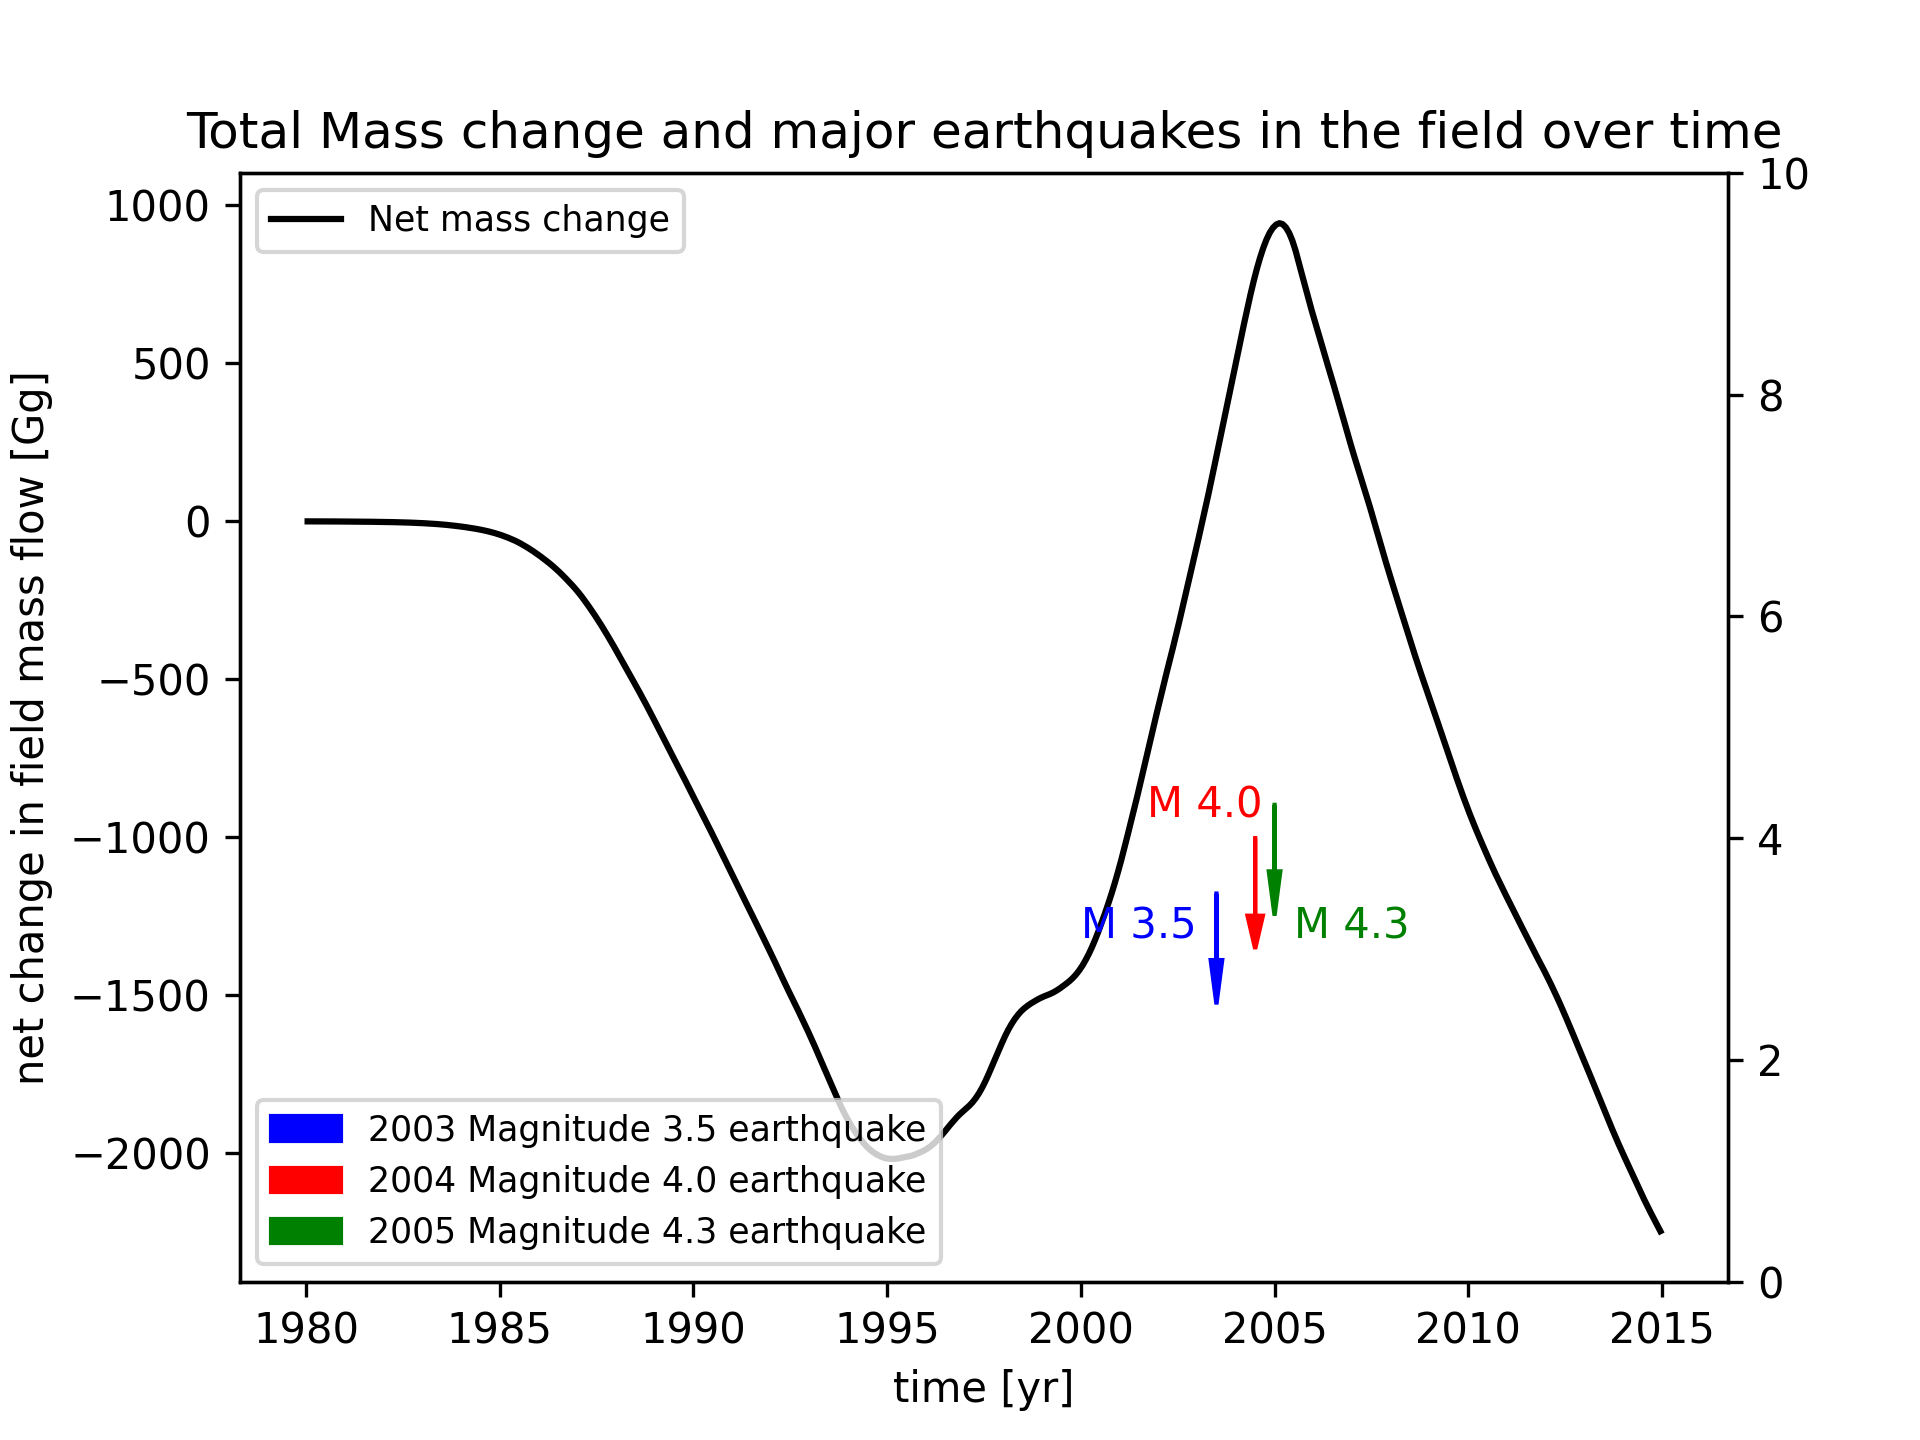
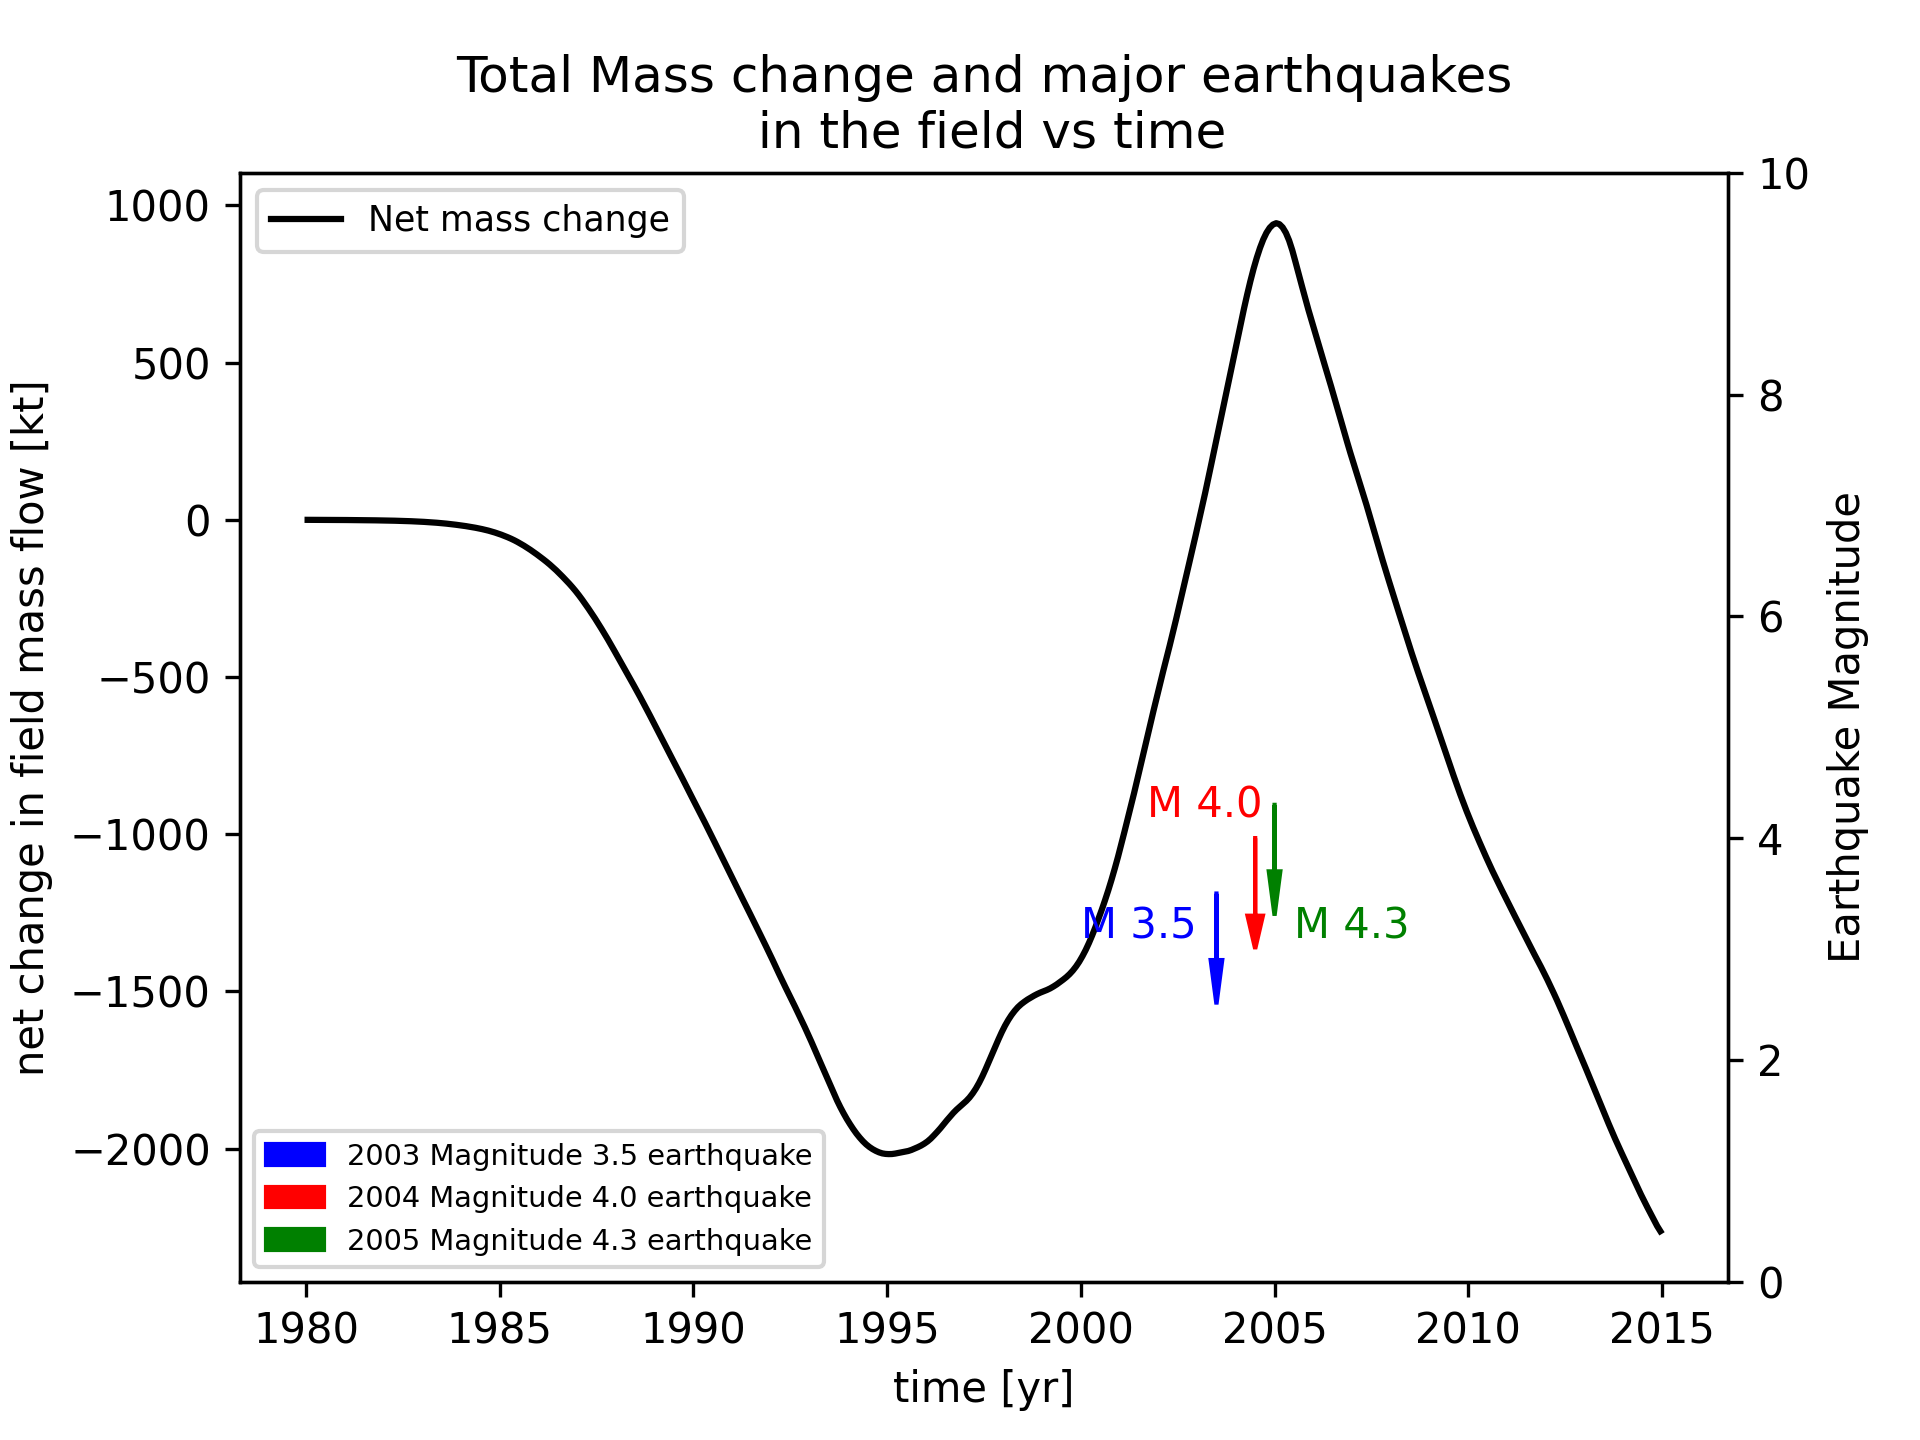
few small changes (e.g. Gg -> kt)

diff --git a/sdlab_earthquakes.py b/sdlab_earthquakes.py
@@ -14,28 +14,8 @@
 import numpy as np
 from scipy.integrate import trapz
 from sdlab_functions import *
-from numpy.linalg import solve, norm
+from numpy.linalg import solve
 import matplotlib.pyplot as plt
-
-# EXERCISE: Analysis of Net Mass Changes.
-#
-# Earthquakes are sometimes associated with oil and gas production (taking mass out of the 
-# ground) and injection (putting it back in) operations.
-# 
-# It has been suggested that injection of water at one particular site, which started midway through  
-# 1993, has been responsible for a spate of recent earthquakes there. These are the data that were 
-# plotted in the first exercise of sdlab_practice.py. The operator of the field has claimed they 
-# cannot be responsible, because injection had been ongoing for almost 10 years before any earthquakes
-# occurred.
-#
-# It has been proposed the earthquakes may be related to NET MASS CHANGES in the field. Therefore,
-# it is necessary to understand how this quantity has evolved over time.
-#
-# Although data from the two production wells (mass extractors) - PW1 and PW2 - are reported regularly,
-# data reporting from the injection well, IW1, is more irregular. In addition, the operator only 
-# reports MASS RATES, not CUMULATIVE production or injection MASS.
-#
-# TO solve this problem, you will need to use both INTERPOLATION and INTEGRATION.
 
 # get data from dat files
 tm,pm1 = np.genfromtxt('PW1.dat',delimiter=',',skip_header=1).T
@@ -61,11 +41,11 @@ mass_inflow_rate = iy_interpo - pm2_interpo - pm1
 
 # integrate mass flow 
 seconds_in_a_year = 31536000 # to convert kg/s to kg/year
-k_to_G_constant = 10**-6 # convert kg to Gg
-net_mass_change = [seconds_in_a_year * trapz(mass_inflow_rate[:i], tm[:i]) * k_to_G_constant for i in range(len(tm))]
+kg_to_kt_constant = 1e-6 # convert kg to kilotonnes
+net_mass_change = [seconds_in_a_year * trapz(mass_inflow_rate[:i+1], tm[:i+1]) * kg_to_kt_constant for i in range(len(tm))]
 
 
-# create a 
+# create a figure to put the plot in
 f, ax1 = plt.subplots(nrows=1,ncols=1)
 ax2 = ax1.twinx()
 
@@ -83,16 +63,69 @@ ax2.text(2005.5, 3.2, 'M 4.3', ha= 'left', va = 'center', size=10, color = 'g')
 # add a legend and axes/plot labels 
 
 ax1.legend(loc=2, fontsize = 'small')
-ax2.legend(loc=3, fontsize = 'small')
+ax2.legend(loc=3, fontsize = 'x-small')
 ax2.set_ylim([0,10])
-ax1.set_ylabel('net change in field mass flow [Gg]')
+ax1.set_ylabel('net change in field mass flow [kt]')
 ax2.set_ylabel('Earthquake Magnitude')
 ax1.set_xlabel('time [yr]')
-ax2.set_title('Total Mass change and major earthquakes in the field over time')
+ax2.set_title('Total Mass change and major earthquakes\n in the field vs time')
 
 
 # save figure
 plt.savefig('sdlab_earthquakes.png',dpi=300)
+
+
+
+
+
+
+
+
+
+
+
+
+
+
+
+
+
+
+
+
+
+
+
+
+
+
+
+
+
+
+
+
+
+# EXERCISE: Analysis of Net Mass Changes.
+#
+# Earthquakes are sometimes associated with oil and gas production (taking mass out of the 
+# ground) and injection (putting it back in) operations.
+# 
+# It has been suggested that injection of water at one particular site, which started midway through  
+# 1993, has been responsible for a spate of recent earthquakes there. These are the data that were 
+# plotted in the first exercise of sdlab_practice.py. The operator of the field has claimed they 
+# cannot be responsible, because injection had been ongoing for almost 10 years before any earthquakes
+# occurred.
+#
+# It has been proposed the earthquakes may be related to NET MASS CHANGES in the field. Therefore,
+# it is necessary to understand how this quantity has evolved over time.
+#
+# Although data from the two production wells (mass extractors) - PW1 and PW2 - are reported regularly,
+# data reporting from the injection well, IW1, is more irregular. In addition, the operator only 
+# reports MASS RATES, not CUMULATIVE production or injection MASS.
+#
+# TO solve this problem, you will need to use both INTERPOLATION and INTEGRATION.
+
 
 # TO DO:
 # - In sdlab_functions.py, COMPLETE the functions SPLINE_COEFFICIENT_MATRIX, SPLINE_RHS, and

diff --git a/sdlab_functions.py b/sdlab_functions.py
@@ -162,7 +162,7 @@ def spline_interpolate(xj, xi, ak):
 	nsamples = len(xi)
 	intervals = [xi[i:i+2] for i in range(0,nsamples-1)]
 	polynomials = [ak[i:i+4] for i in range(0, 4*(nsamples-1),4)]
-	yj = np.array([])
+	yj = np.zeros(len(xj))
 
 	# make the first interval [-inf, xi[0]] and the last interval [xi[-1], inf] and set all points interpolated here to 0
 	intervals = [np.array([-np.inf, xi[0]])] + intervals + [np.array([xi[-1], np.inf])]
@@ -171,16 +171,19 @@ def spline_interpolate(xj, xi, ak):
 
 	# iterated index specifying which interval we are in
 	interv = 0
-	
+	# specifies which point in xj we are looking at
+	j = 0
 	# find the point x1
 	for ipoint in xj:
 		# change interval until it contains the interpolating point
 		while not ((ipoint >= intervals[interv][0]) and (ipoint <= intervals[interv][1])):
 			# iterate subinterval
 			interv +=1
-		# append polynomial evaluated at this point if between first and last point, otherwise append a 0
-		yj = np.append(yj,polyval(polynomials[interv],ipoint-xi[interv-1])) if interv != 0 or interv != len(xi)\
-			 else np.append(yj,polyval(polynomials[interv],0))
+		# set yj[j] to polynomial evaluated at this point if between first and last point, otherwise set to 0
+		yj[j] = polyval(polynomials[interv],ipoint-xi[interv-1]) if (interv != 0 or interv != len(xi)) else 0
+
+		# iterate j index
+		j+=1
 
 	return yj
 	

diff --git a/sdlab_practice.py b/sdlab_practice.py
@@ -21,7 +21,7 @@ tol = 1.e-6
 # Boolean variables to run each exercise
 run_ex1 = False # boolean to run EXERCISE 1
 run_ex2 = True # boolean to run EXERCISE 2
-run_ex3 = False # boolean to run EXERCISE 3
+run_ex3 = True # boolean to run EXERCISE 3
 
 
 # EXERCISE 1: Plotting sampled data (max 20 mins)
